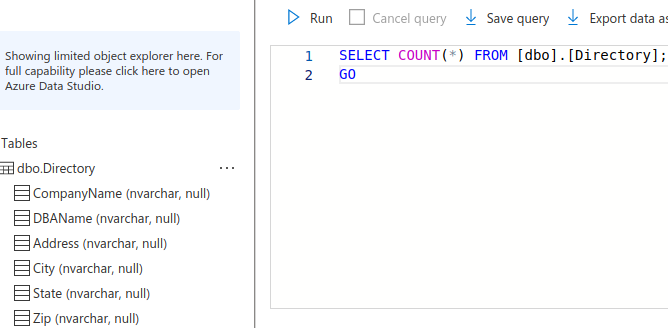
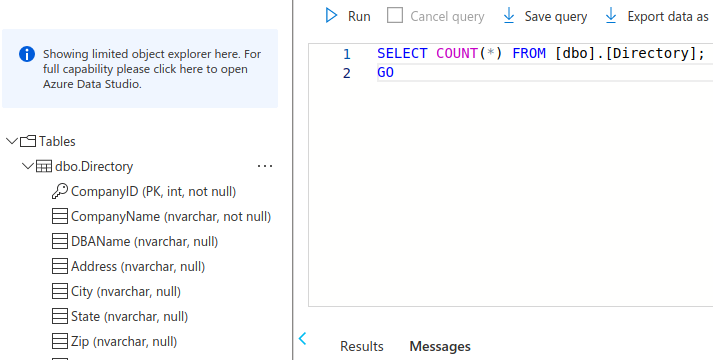
Update post Azure DF

diff --git a/posts/data-pipeline-azure-data-factory.md b/posts/data-pipeline-azure-data-factory.md
@@ -24,6 +24,8 @@ After some googling, I learned that using the google query `unified certificatio
 
 I found one that had JSON data and another one that could be possibly scraped. For now I left them out of this pipeline.
 
+This is a sample of one of the files with a sea of rows:
+
 ![Data Sources and Seas of Rows](/images/data-source-sea-of-rows.png)
 
 ## Create an Azure Data factory
@@ -55,7 +57,7 @@ I decided to use these columns. The insights could be to find the number of DBE 
 I created a container named `dbeapp` with two directories:
 
 * `inputCSV`: I uploaded `12` CSV files
-* `outputJoinedCSV`: I will this after joining all files.
+* `outputJoinedCSV`: I will use this after joining all files.
 
 How to create a storage account with a container. Example in [Azure Analysis Services](deploy-powerbi-model-azure-analysis-services)
 
@@ -71,7 +73,8 @@ After the SQL Server and Database were created.
 Create a table to hold the data:
 
     CREATE TABLE Directory (
-        CompanyName nvarchar(100),
+        CompanyID int PRIMARY KEY IDENTITY(1,1),
+        CompanyName nvarchar(100) NOT NULL,
         DBAName nvarchar(100),
         Address nvarchar(100),
         City nvarchar(50),
@@ -84,7 +87,14 @@ Create a table to hold the data:
         County nvarchar(50)
     )
 
-However, much later in the process, I had problems with the data pipeline, and to change the column lengths. More about this later.
+However, much later in the process, I had problems with the data pipeline, and had to change the column lengths. More about this later.
+
+In another blog post, I am going to build a star schema from this database since:
+
+* `Directory` is not the best name for this table, change to `Company`
+* Extract address information into a `CompanyAddress` table (since a company can have many address values)
+* I think `Agency` and `CertificationType` might have a few dozen unique values and they can be in separate tables
+* The database can have a fact table to make PowerBI easier to query than creating DAX calculations
 
 Open the `Tables` to verify that the query ran correctly. I can see the columns in `dbo.Directory`
 
@@ -239,6 +249,8 @@ This is what the final Data Flow looks like, all the way zoomed out:
 * I set my rows to `100`. The default is `1000`
   * This setting is changed to the default every time you stop/start a Debug instance.
 
+Final result of the Data Flow, zoomed in:
+
 ![Azure Data Factory Data flow Zoom in](/images/azure-data-factory-data-flow-zoom1.png)
 
 **Create a Source**
@@ -259,8 +271,9 @@ This is what the final Data Flow looks like, all the way zoomed out:
   * Select `First row as header`
 * `Save all` to commit to the repository
 
-Enable `Data flow debug`:
+**Debug what you have so far**
 
+* Enable `Data flow debug`
 * Change `Debug settings` with a row limit of `100`
 * In `Source Settings` tab
   * In `Linked Service` click on `Test connection`
@@ -268,6 +281,8 @@ Enable `Data flow debug`:
   * Click `Refresh`
   * If you get the error `The gateway did not receive a response from 'Microsoft.DataFactory'`
     * Disable Debug and Enable again
+
+Final result of the Data Flow, a closer look:
 
 ![Azure Data Factory Data Flow Zoom more](/images/azure-data-factory-data-flow-zoom2.png)
 
@@ -277,7 +292,7 @@ I want these columns:
 
     CompanyName, DBAName, Address, City, State, Zip, Website, Agency, CertificationType, Capability, County
 
-On the `Source` card
+On the `Source` card (In my example `TexasCSV`)
 
 * Go the `Data preview` tab
 * Click `Map drifted`
@@ -300,7 +315,7 @@ On the `Select` card
 
 **Add Output to a Sink**
 
-On the `RenameColumns` (select) card:
+On the `RenameColumns` (Select card):
 
 * Click on the plus `+` icon
 * Select `Destination` then `Sink`
@@ -371,7 +386,7 @@ What I realized from my CSV files was that those that used the same platform (th
 
 **Results of joining DBE files**
 
-* About `36,000` rows
+* About `36,000` rows (companies)
 * Size `6MB`
 
 ## 5. Create an input Dataset for PowerQuery processing
@@ -415,10 +430,15 @@ Later when you try to move the dataset from Data Studio to SQL Server. It might 
 * Rename it, for example `CleanCSV`
 * Select a dataset, `InputPowerQueryCSV`
 * PowerQuery opens as an iframe
-  * Many columns had white space. I transformed all the columns to `Trim` them
-  * Another column had too many characters and I decided to truncate it to `250` characters
-    * Formula `Text.Start([Capability], 250)`
-  * I also removed duplicates by `CompanyName + Address` and by `Address + City + State`
+* `Save all` to commit to the repository
+
+**Process the data with PowerQuery**
+
+* Many columns had white space. I transformed all the columns to `Trim` them
+* Another column had too many characters and I decided to truncate it to `250` characters
+  * Formula `Text.Start([Capability], 250)`
+* I also removed duplicates by `CompanyName + Address + CertificationType`
+  * There were repeated rows but had different `CertificationType`
 * `Save all` to commit to the repository
 
 **Correct the Table in SQL Server**
@@ -429,7 +449,8 @@ Go to the SQL Server Table, then Query Editor. Recreated the table to map the ma
     GO
 
     CREATE TABLE Directory (
-        CompanyName nvarchar(150),
+        CompanyID int PRIMARY KEY IDENTITY(1,1),
+        CompanyName nvarchar(100) NOT NULL,
         DBAName nvarchar(150),
         [Address] nvarchar(150),
         City nvarchar(50),
@@ -443,7 +464,7 @@ Go to the SQL Server Table, then Query Editor. Recreated the table to map the ma
     );
     GO
 
-**Create a dataset for clean PowerQuery result**
+**Create a dataset for the PowerQuery result**
 
 * In Data Factory, Author interface, click on Datasets
 * Create new dataset, Azure Blob Storage, DelimitedText
